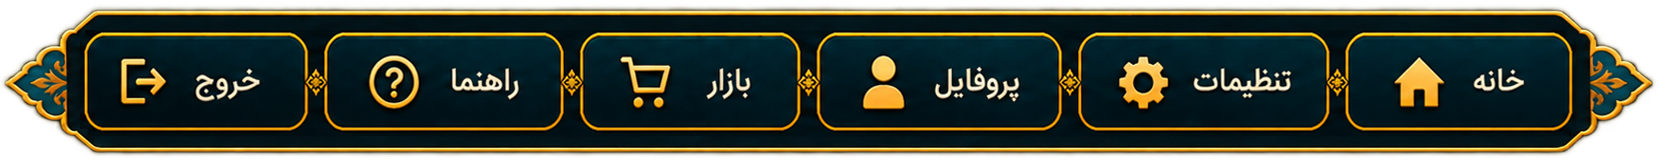
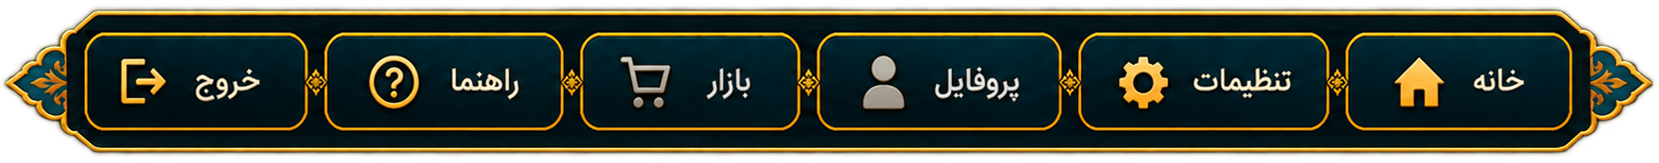
level msg

Changed region(s): [[0.3689, 0.3374, 0.4304, 0.6748], [0.5226, 0.5215, 0.5533, 0.6748], [0.5226, 0.3374, 0.5533, 0.4908]]

diff --git a/docs/engine-contract.md b/docs/engine-contract.md
@@ -240,6 +240,8 @@ Adapter قرارداد `request(request_id, level_id)` و رویدادهای `un
 
 اگر برنامه پس از حل و پیش از دکمهٔ بعد بسته شود، صفحهٔ اصلی نتیجهٔ pending را مشخص میکند؛ Play همان نتیجه و پاسخ را بازیابی میکند و مرحلهٔ حلشده اجرا نمیشود. متن پاسخ از تعریف معتبر مرحله خوانده میشود، بدون ساخت اشیای مرحلهٔ تکمیلشده یا تغییر ساختار save_version:1. دکمهٔ بعد، pending را پاک و شناسهٔ مرحلهٔ بعد را ذخیره میکند؛ در برنامه به صفحهٔ اصلی برمیگردد و Play بعدی مقصد را بارگذاری میکند. API مستقل Controller همچنان میتواند مستقیم مقصد را بارگذاری کند. رویداد تکراری دکمه نادیده گرفته میشود. شکست و تلاش دوباره، نتیجهٔ موفق یا دسترسی به مرحلهٔ بعد ایجاد نمیکنند.
 
+پس از ثبت موفق ادامهٔ آخرین مرحله، برنامه ابتدا پنل پایان محتوای نسخه را نمایش میدهد؛ بازگشت مستقیم به خانه برای این مرحله انجام نمیشود. پنل، تعداد مراحل موجود در manifest، پیام تشکر و ادامهٔ محتوا در بهروزرسانیهای بعدی، موجودی امتیاز و مجموع ستارهها و دکمهٔ «بازگشت به خانه» دارد. این دکمه فقط ناوبری است و نتیجه/ذخیره را دوباره اعمال نمیکند. خانهٔ بازی تمامشده پیام پایان مراحل این نسخه را نشان میدهد و شروع غیرفعال میماند تا محتوای تازه با انتقال معتبر ذخیره اضافه شود.
+
 ## منطق اختصاصی و پاکسازی
 
 handler از `PuzzleCustomHandler` مشتق میشود و `setup(context)`، `on_event(event, context)` و `teardown()` دارد. setup پس از ساخت وضعیت اولیه و قبل از شروع ساعت است. on_event پس از قوانین داده، فقط اگر اجرا هنوز PLAYING باشد فراخوانی میشود. این متدها منتظر عملیات async نمیمانند؛ عملیات را به Runner میسپارند.

diff --git a/docs/engine-implementation-plan.md b/docs/engine-implementation-plan.md
@@ -119,4 +119,16 @@
 
 ## مراجع اجرای برنامه
 
+### آمادهسازی انتشار نسخهٔ اول — کافهبازار
+
+| ترتیب | کار | وضعیت |
+| --- | --- | --- |
+| ۱ | حلپذیری۳۰مرحله و پیام پایان نسخه | کاربر تست۳۰مرحله را تأیید کرده؛ مسیر و متن پیام پایان اصلاح شده، پذیرش تغییر تازه باز است |
+| ۲ | بررسی ذخیره، هینت، تبلیغ، خروج/بازگشت و پایان نسخه | کاربر عملکرد تبلیغ روی گوشی را تأیید کرده؛ پوشش سایر حالتها و آزمون تغییر پایان باز است |
+| ۳ | کلید امضای دائمی و خروجی Release | انجام نشده؛ کلید باید برای آپدیتهای بعد حفظ شود؛ ساخت/نصب مجوز مستقل دارند |
+| ۴ | نسخهٔ نمایشی1.0.0 و افزایش versionCode انتشار | انجام نشده؛ پس از پذیرش نسخهٔ اول ثبت شود |
+| ۵ | اطلاعات کافهبازار، حریم خصوصی و تنظیم تبلیغ واقعی | مارکت توسط کاربر مشخص شده؛ شرایط مخاطب۱۱سالبهبالا با ادیوری و سایر موارد انتشار باز است |
+
+آزمونهای مرتبط با پایان نسخه: `tests/test_application.gd` برای مسیر واقعی پایان و برگشت خانه، `tests/test_progress_hints.gd` برای ذخیره/بازیابی پایان و `tests/test_ui_layout.gd` برای متن و دکمه در ماتریس اندازهها. وضعیت اجرای تغییر تازه: اجرا نشده؛ نیازمند دستور صریح کاربر. این تأیید محتوایی، تکمیل همهٔ قابلیتها یا پذیرش کامل گام۷/۸ نیست.
+
 روش کار، پذیرش مبتنی بر شواهد، مجوز آزمون و قواعد ساخت منابع فقط در [قواعد پروژه](project-rules.md) نگهداری میشوند. تعریف خروجی هر گام در این سند، قرارداد محصول را تغییر نمیدهد؛ جزئیات رفتار و چیدمان از مراجع تخصصی بالا خوانده شوند.

diff --git a/docs/development.md b/docs/development.md
@@ -1,5 +1,9 @@
 # راهنمای توسعه و گزارش گامهای ۱ تا ۶
 
+## پایان نسخهٔ۳۰مرحلهای و ترتیب انتشار — 2026-10-15
+
+کاربر تست۳۰مرحله و عملکرد تبلیغ روی گوشی را تأیید و کافهبازار را انتخاب کرد. پس از نتیجهٔ آخرین مرحله و ذخیرهٔ ادامه، مسیر خانه دیگر پنل پایان را دور نمیزند؛ پیام تشکر، تعداد مراحل manifest، امتیاز/ستاره و بازگشت خانه نمایش داده میشوند. خانه نیز پایان محتوای این نسخه و ادامه در آپدیتها را بیان میکند. همان Overlay/Theme و ScrollContainer موجود استفاده شدند؛ دارایی تازه ندارد. ترتیب بقیهٔ انتشار در برنامهٔ اجرا ثبت شد. بررسی مرتبط: `tests/test_application.gd`، `tests/test_progress_hints.gd` و `tests/test_ui_layout.gd`؛ تغییر تازه، آزمون و بررسی تصویری نشده و APK/نصب انجام نشدهاند؛ دستور صریح لازم دارند.
+
 ## علت نبود تبلیغ در APK۴ — 2026-10-15
 
 در بررسی فقطخواندنی گوشی متصل، بستهٔ نصبشده `org.ramzoraz.puzzle` بود؛ manifest فایل `builds/4.apk` نیز همین پکیج را داشت و ثبت پلاگین ادیوری در آن نبود. تنظیمات Export دوباره Gradle خاموش و پکیج قدیمی داشتند؛ Gradle فعال و پکیج مصوب `ramzoraz.mokho.com` بازیابی شدند. لاگ موجود Godot خوانده شد؛ برنامه اجرا/کنترل نشد و آزمون، ساخت APK یا نصب انجام نشد. اثر اصلاح روی بستهٔ نهایی و نمایش تبلیغ نیازمند ساخت/نصب مجاز و پذیرش اتصال است. بستهٔ قدیمی و دادهٔ آن حذف نشدهاند؛ پکیج مصوب روی Android برنامهای جدا محسوب میشود.
